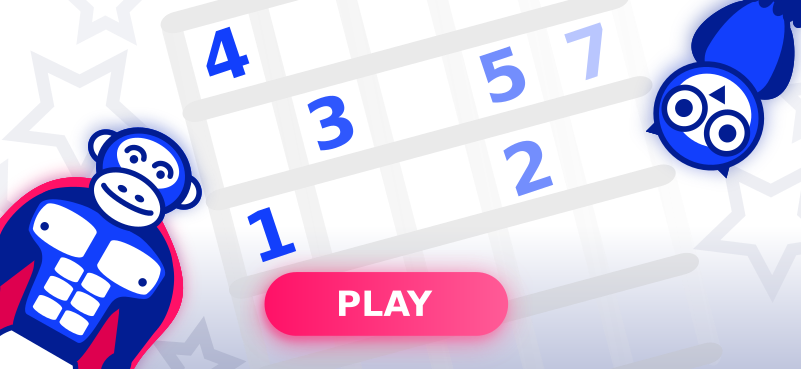
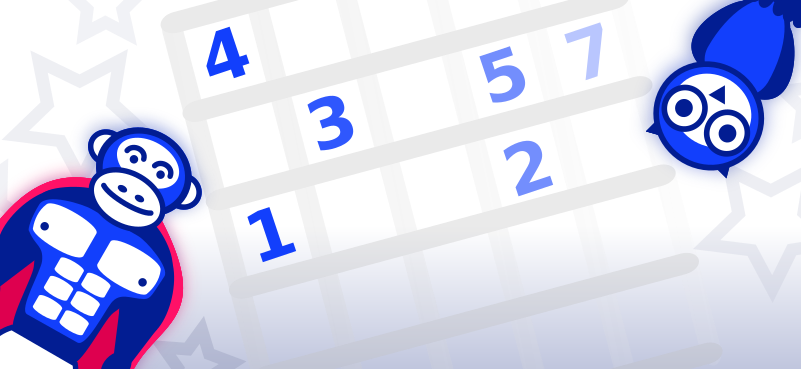
Make a basic dashboard structure with a play button

Changed region(s): [[0.3121, 0.7154, 0.6554, 0.9539]]

diff --git a/web_app/src/views/Home.vue b/web_app/src/views/Home.vue
@@ -1,11 +1,60 @@
-<template>
-  <div class="home">
-  </div>
+<template lang="pug">
+  .home
+    .dashboard  
+      md-button.dashboard__cell
+        .dashboard__button Play
+      md-button.dashboard__cell
+      md-button.dashboard__cell
 </template>
 
 <script>
-
 export default {
   name: 'home'
 }
 </script>
+
+<style scoped lang="stylus">
+@import url('https://fonts.googleapis.com/css?family=Open+Sans:800')
+
+.home
+  width 100%
+  height 100%
+  display flex
+  align-items center
+  justify-content center
+
+.dashboard
+  margin 0 auto
+  width 90%
+  max-width 800px
+  display grid
+  grid-gap 20px
+  grid-template 1fr 1fr / 1fr 1fr
+  grid-template-areas "a a" "b c"
+  &__cell
+    position relative
+    height 220px
+    border-radius 5px
+    background #e4e4e4
+    cursor pointer
+    &:nth-child(1)
+      height 369px
+      background-image url('../../../images/gui/play.png')
+      grid-area a
+  &__button
+    position absolute
+    display flex
+    align-items center
+    justify-content center
+    left -100px
+    right 0
+    top 110px
+    width 200px
+    height 50px
+    border-radius 50px
+    color #222
+    font-family 'Open Sans', sans-serif
+    text-transform uppercase
+    font-weight 900
+    font-size 50px
+</style>
